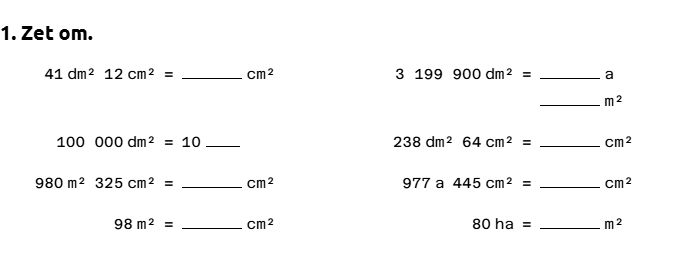
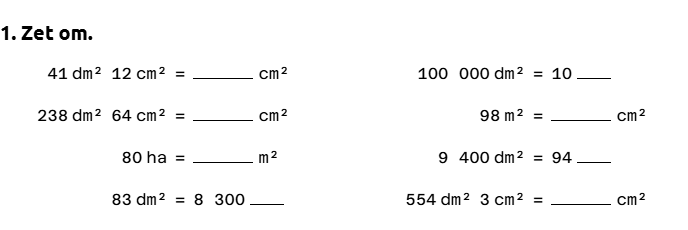
docs: kiosk triage wrap-up — K1 docs (fraction input, plaatsAnswer, cardExtent, checkFields), BUGS, UpdateState, release notes; catalogue regenerated

diff --git a/oefeningen.html b/oefeningen.html
@@ -1026,7 +1026,7 @@
 
       <div id="catalogue-cards">
 <!-- catalogue:start -->
-    <!-- catalogue: seed 1234, 2026-10-10, 128 leaves -->
+    <!-- catalogue: seed 1234, 2026-10-11, 128 leaves -->
     <section id="getallenkennis">
       <h2>Getallenkennis</h2>
       <h3>Getalbegrip</h3>
@@ -1387,7 +1387,7 @@
       <article class="ex-card" id="hr-std-optellen-dec" data-leaf="hr-std-optellen-dec" data-type="hr-std-optellen">
         <h4>Decimale getallen</h4>
         <p class="ex-instruction">&ldquo;Reken uit.&rdquo;</p>
-        <p class="ex-desc">Instelbaar: getalsoort, plus aantal, breedte, lettergrootte en schrijfruimte.</p>
+        <p class="ex-desc">Instelbaar: getalsoort, maximumgetal en aantal cijfers na de komma, plus aantal, breedte, lettergrootte en schrijfruimte.</p>
         <img src="/oefeningen/hr-std-optellen-dec.png" alt="Voorbeeld van de oefening Decimale getallen" loading="lazy" width="688" height="314" />
       </article>
       <article class="ex-card" id="hr-std-aftrekken-nat" data-leaf="hr-std-aftrekken-nat" data-type="hr-std-aftrekken">
@@ -1399,7 +1399,7 @@
       <article class="ex-card" id="hr-std-aftrekken-dec" data-leaf="hr-std-aftrekken-dec" data-type="hr-std-aftrekken">
         <h4>Decimale getallen</h4>
         <p class="ex-instruction">&ldquo;Reken uit.&rdquo;</p>
-        <p class="ex-desc">Instelbaar: getalsoort, plus aantal, breedte, lettergrootte en schrijfruimte.</p>
+        <p class="ex-desc">Instelbaar: getalsoort, maximumgetal en aantal cijfers na de komma, plus aantal, breedte, lettergrootte en schrijfruimte.</p>
         <img src="/oefeningen/hr-std-aftrekken-dec.png" alt="Voorbeeld van de oefening Decimale getallen" loading="lazy" width="688" height="314" />
       </article>
       <article class="ex-card" id="hr-std-vermenigvuldigen-nat" data-leaf="hr-std-vermenigvuldigen-nat" data-type="hr-std-vermenigvuldigen">
@@ -1411,7 +1411,7 @@
       <article class="ex-card" id="hr-std-vermenigvuldigen-dec" data-leaf="hr-std-vermenigvuldigen-dec" data-type="hr-std-vermenigvuldigen">
         <h4>Decimale getallen</h4>
         <p class="ex-instruction">&ldquo;Reken uit.&rdquo;</p>
-        <p class="ex-desc">Instelbaar: getalsoort, plus aantal, breedte, lettergrootte en schrijfruimte.</p>
+        <p class="ex-desc">Instelbaar: getalsoort, maximumgetal en aantal cijfers na de komma, plus aantal, breedte, lettergrootte en schrijfruimte.</p>
         <img src="/oefeningen/hr-std-vermenigvuldigen-dec.png" alt="Voorbeeld van de oefening Decimale getallen" loading="lazy" width="688" height="314" />
       </article>
       <article class="ex-card" id="hr-std-delen-nat" data-leaf="hr-std-delen-nat" data-type="hr-std-delen">
@@ -1423,7 +1423,7 @@
       <article class="ex-card" id="hr-std-delen-dec" data-leaf="hr-std-delen-dec" data-type="hr-std-delen">
         <h4>Decimale getallen</h4>
         <p class="ex-instruction">&ldquo;Reken uit.&rdquo;</p>
-        <p class="ex-desc">Instelbaar: getalsoort, plus aantal, breedte, lettergrootte en schrijfruimte.</p>
+        <p class="ex-desc">Instelbaar: getalsoort, maximumgetal en aantal cijfers na de komma, plus aantal, breedte, lettergrootte en schrijfruimte.</p>
         <img src="/oefeningen/hr-std-delen-dec.png" alt="Voorbeeld van de oefening Decimale getallen" loading="lazy" width="688" height="314" />
       </article>
       <article class="ex-card" id="hr-std-gemengd-nat" data-leaf="hr-std-gemengd-nat" data-type="hr-std-gemengd">
@@ -1435,7 +1435,7 @@
       <article class="ex-card" id="hr-std-gemengd-dec" data-leaf="hr-std-gemengd-dec" data-type="hr-std-gemengd">
         <h4>Decimale getallen</h4>
         <p class="ex-instruction">&ldquo;Reken uit.&rdquo;</p>
-        <p class="ex-desc">Instelbaar: getalsoort, plus aantal, breedte, lettergrootte en schrijfruimte.</p>
+        <p class="ex-desc">Instelbaar: getalsoort, maximumgetal en aantal cijfers na de komma, plus aantal, breedte, lettergrootte en schrijfruimte.</p>
         <img src="/oefeningen/hr-std-gemengd-dec.png" alt="Voorbeeld van de oefening Decimale getallen" loading="lazy" width="688" height="314" />
       </article>
       <h3>Handig hoofdrekenen</h3>
@@ -1797,7 +1797,7 @@
         <h4>Oppervlakte</h4>
         <p class="ex-instruction">&ldquo;Zet om.&rdquo;</p>
         <p class="ex-desc">Instelbaar: grootheid en eenheden, plus aantal, breedte, lettergrootte en schrijfruimte.</p>
-        <img src="/oefeningen/herleidingen-oppervlakte.png" alt="Voorbeeld van de oefening Oppervlakte" loading="lazy" width="688" height="253" />
+        <img src="/oefeningen/herleidingen-oppervlakte.png" alt="Voorbeeld van de oefening Oppervlakte" loading="lazy" width="688" height="230" />
       </article>
     </section>
     <section id="bladonderdelen">

diff --git a/src/config/releaseNotes.ts b/src/config/releaseNotes.ts
@@ -226,6 +226,16 @@ export const RELEASE_NOTES: readonly ReleaseNote[] = [
                 text: 'Oefenmodus: de kaart toont een “?”-vakje waar het antwoord komt, veelvouden en wisselgeld variëren, en herleidingen blijven binnen de leerstof van het leerjaar.',
             },
             {
+                kind: 'nieuw',
+                text: 'Oefenmodus: breuken herkennen vraagt een echte breuk (eerst noemer, dan teller). Plaatswaarde krijgt de keuze “Antwoord”: waarde, plaats, plaats door elkaar.',
+                example: { leafId: 'plaatswaarde-plaats', constraints: { plaatsAnswer: 'waarde' }, grade: 3, count: 2, after: 'de leerling typt de waarde (“20”)' },
+            },
+            {
+                kind: 'opgelost',
+                text: 'Oefenmodus: controleren toont ook foute sommen, breuk-kommagetal vergelijken is niet altijd “<”, en het onderstreepte cijfer bij plaatswaarde is zichtbaar.',
+                example: { leafId: 'vergelijken-representaties', grade: 5, count: 3, before: 'altijd “<”', after: '<, = en > komen voor' },
+            },
+            {
                 kind: 'gewijzigd',
                 text: 'Bladen die je met deze versie bewaart of deelt, openen niet meer op de vorige versie van RekenRaak (nieuw bestandsformaat).',
             },

diff --git a/.claude/docs/ARCHITECTURE.md b/.claude/docs/ARCHITECTURE.md
@@ -522,9 +522,9 @@ only.
 | `splitsen` (positie-*) | `splitsenExercises` | `generateSplitsenExercises` | `SplitsenViewer` | `SplitsenConfig` | layout positie-tabel/-benen/-math (sidebar leaf), maxGetal(≤1e9), decimalPlaces, operand1Mask, benenVariants[], mathForms[], mathDirection, `mathOrder` (volgorde/gehusseld — the generator shuffles once per exercise into `ex.placeOrder`); columns follow width + maxGetal (benen), positie-math is always 1-up Number words put a space after "duizend" ("duizend tweehonderd") |
 | `getallenas` | `getallenasExercises` | `generateGetallenasExercises` | `GetallenasViewer` | `GetallenasConfig` | numberType (natural/decimal/rational/geheel), maxGetal, minGetal, step, fractionStep, direction(+beide), allowMixed, gelijknamig, hardMode, ticks |
 | `temperatuur` | `temperatuurExercises` | `generateTemperatuurExercises` | `TemperatuurViewer` | `TemperatuurConfig` | variant (kleuren/aflezen/verschil — sidebar leaf), mode1/mode2 (verschil), includeNegatives, perRow |
-| `plaatswaarde` | `PLAATSWAARDE_KIOSK` | waarde: a number; plaats: pick the place; omcirkelen: **tap** the place chip; tabel: **fill** the plaatswaardetabel |
+| `plaatswaarde` | `PLAATSWAARDE_KIOSK` | waarde: a number; plaats: pick the place; omcirkelen: **tap** the place chip; tabel: **fill** the plaatswaardetabel `plaatsAnswer`: `'plaats'` (today's H/T/E in digit order) · `'plaats-shuffle'` (seeded shuffle, never the digit order with 3 places) · `'waarde'` (type the digit's value, "20"); PlaatswaardeConfig "Antwoord" picker; both leaf instructions follow the setting |
 | `even-oneven` | `EVEN_ONEVEN_KIOSK` | cirkels: even / oneven; rooster: **tap** every even (or oneven) number |
-| `vergelijken` | `VERGELIJKEN_KIOSK` | getallen / representaties: `<` `=` `>` buttons; kiezen: **tap** the grootste / kleinste number on the card |
+| `vergelijken` | `VERGELIJKEN_KIOSK` | getallen / representaties: `<` `=` `>` buttons; kiezen: **tap** the grootste / kleinste number on the card representaties: both sides drawn in the same magnitude with ≈ 20 % equal pairs (no answer > 60 % over 200 seeds; was always "<") |
 | `afronden` | `AFRONDEN_KIOSK` | simpel and rooster: **fill** the rounded number into the card's cells |
 | `romeinse-cijfers` | `romeinseExercises` | `generateRomeinseExercises` | `RomeinseViewer` | `RomeinseConfig` | subType (herkennen/schrijven), niveau (1–4); always-subtractive notation, numberMask |
 | `herleidingen` | `herleidingExercises` | `generateHerleidingExercises` | `HerleidingenViewer` | `HerleidingenConfig` | measure (lengte/inhoud/massa/**oppervlakte** incl. ha·a·ca — sidebar leaf), units[] (ladder subset), **maxEnkel** (def 100, single formats) + **maxSamengesteld** (def 1000, compound formats) — power-of-10 breakpoint sliders, formats[] (4), **compoundMode** (2/volledig), writeUnits, scaffolding (geen/tabel-headers/tabel-blanco) + table options `tablePrompt`/`tableAnswer` (blank/filled/hidden)/`tableCellW`/`tableCellH` — all in the **Differentiatie** card. Integer-exact (safe-int guarded); `HerleidingenViewer` auto single-columns wide blocks, renders a centered enriched table, and allows inline edit of given numbers + a unit **dropdown** (`recomputeHerleiding` + `patchExercise`). Key drops zero parts ("71 dl"); the sheet keeps every blank; kiosk: a zero part typed 0 or left empty is juist (`answerOf` `'0|'`, descriptor `blankFields`) writeUnits: the generator sets `targetUnit` per exercise (one-part number answers); the sheet prints a grey "(in mm)" hint after the blank and the kiosk header says "Zet om naar mm." while `showTargetUnit` ("Doeleenheid tonen", missing = on) holds; the pupil still writes / taps the unit and the copy guard stays `maxWaarde` (hidden constraint, no picker): the generator rejects bigger numbers and drops the cap if nothing fits; `SEED_FIT` at leerjaar ≤ 3 caps at 10 000 (minimumdoelen) and below leerjaar 5 oppervlakte has no compound formats; the oppervlakte leaf default is 999 999 |
@@ -1188,6 +1188,7 @@ src/
 │       ├── Tray.tsx             # build kind: one tile per KioskPiece (picture from EXERCISE_UI[typeId].TrayPiece), tap lays one, the count badge takes one back; never shows the running total
 │       ├── FeedbackOverlay.tsx  # Juist! / Fout / retry flash (tap or Enter skips), never the right answer; no Volgende button
 │       ├── StatsScreen.tsx      # headline c van m juist (m van p gemaakt), per type gemaakt/juist/juist in één keer/juist na 2e kans/fout/%, Foutjes (exercise, given, expected), Opnieuw, two-tap Wissen
+│       ├── cardExtent.ts        # measured card height = layout box + whatever draws below it (underlines), so nothing is clipped by the sizer
 │       ├── StorageBanner.tsx    # role=alert strip when saveRun returned false (storageFailed): "Dit toestel kan je resultaten niet bewaren."
 │       ├── StartScreen.tsx      # confirm screen (title, n soorten · n oefeningen · min, type chips), Start (+ fullscreen try)
 │       ├── ErrorScreen.tsx      # bad / truncated / newer link, or no link
@@ -2080,7 +2081,7 @@ finish(): locked StatsScreen (De tijd is om! / Klaar!) — reload stays there; O
 
 | Field | Contract |
 |---|---|
-| `input` | the typical input: `number` · `number+rest` (quotiënt + rest, both must match) · `choice` · `missing-operand` (the blank of a puntoefening) · `text` (a word on the device keyboard: Romeins, a unit) · `time` (uur + min) · `multi-number` (one field per blank) · `number+unit` (herleidingen with writeUnits: keypad number + the measure's WHOLE unit ladder as choice buttons from the settings; checked by VALUE through `unitFactors` with exact scaled integers, so 1 m 20 = 120 cm = 12 dm; typing the given quantity back in its own unit counts as wrong - the copy guard) · `interactive` (Phase C: the pupil answers ON the exercise, see `interact`) |
+| `input` | the typical input: `number` · `number+rest` (quotiënt + rest, both must match) · `choice` · `missing-operand` (the blank of a puntoefening) · `text` (a word on the device keyboard: Romeins, a unit) · `time` (uur + min) · `multi-number` (one field per blank) · `fraction` (breuken herkennen: two keypad fields typed NOEMER first, then TELLER, drawn teller-over-bar-over-noemer in the panel; the wide key reads "Verder" until the teller field; `answerOf` = breuk spellings compared as "teller/noemer" under `exactForm` — the drawn form 2/6 by default, any equal value with the row toggle; stats show "3/6") · `number+unit` (herleidingen with writeUnits: keypad number + the measure's WHOLE unit ladder as choice buttons from the settings; checked by VALUE through `unitFactors` with exact scaled integers, so 1 m 20 = 120 cm = 12 dm; typing the given quantity back in its own unit counts as wrong - the copy guard) · `interactive` (Phase C: the pupil answers ON the exercise, see `interact`) |
 | `inputOf(ex, c)?` | per-exercise refinement (a puntoefening or met-rest row in an hr block, a unit-blank herleiding) |
 | `choices?` / `choicesOf(ex, c)?` | the buttons, in order; `choicesOf` for per-exercise buttons (the row's numbers in vergelijken kiezen) |
 | `labels(ex, c)?` | multi-number field names (kg / g, euro / cent); named fields get a caption, numeric ones read left to right |
@@ -2100,6 +2101,8 @@ finish(): locked StatsScreen (De tijd is om! / Klaar!) — reload stays there; O
 | `kioskInstruction?` | the card header when the paper instruction names a pen verb (omcirkel, kleur, vul in) or a paper-only answer ("in woorden") but the kiosk asks a tap or a typed cell (klok analoog lezen: "Lees de klok en typ de tijd (uu:mm)."; breuken kleuren: "Kleur 3/6 in." and the card hides its own prompt under the context); string or `(ex, c) => string \| undefined`. A teacher's own wording wins; the leaf's default gives way to this (`kioskInstructionOf`) |
 | `interact?` / `interactOf(c)?` | required whenever `input` / `inputOf` can be `interactive`: `{ kind, answerOf, fromState, keys?, cellOf?, show? }` (rows below). `interactOf` picks per SETTINGS (plaatswaarde: tap a letter or fill the tabel; undefined falls back to `interact`); read both through `kioskInteractOf(d, c)` |
 | `blankFields?(ex, c)` | multi-number: fields that may stay empty (a zero part in a compound herleiding); Controleer runs with one field filled (`typedReady`); `''` in `answerOf` marks the accepted empty alternative |
+| `kioskSeed?(c)` | the kiosk's own starting settings for a leaf, read by `listOefenLeaves` (plaatswaarde rows start on `plaatsAnswer: 'waarde'` while the sheet default stays `'plaats'`) |
+| `checkFields?(ex, c, given)` | multi-number: a cross-field rule beside the per-field check (gelijknamig: both answers must share a noemer and equal the given fractions — any common noemer counts; a teacher-fixed `targetDen` is still required) |
 | `unitFactors?(c)` | number+unit: the ladder's factors to the base unit (massa stops at kg: the generator has no ton) |
 | `showAnswer?(ex, c)` | stats error-row text when `display` would read as a riddle: "analoge klok toont 4:45: hoe laat?", "hoek van 120°: welke soort?", geld "€ 2,65" |
 | `supported(c)?` | settings this descriptor can check (splitsen: four layouts; breuken: kleuren / herkennen / hoeveelheid); `kioskSupports` evaluates it over the registry defaults + the leaf's; the builder excludes an unsupported row with a hint |
@@ -2315,6 +2318,9 @@ nothing are pinned per leaf in `oefenen.zeroOutput.test.ts` (DEAD table; a new o
 
 ### Card content rules (clean sweep 2026-10-10)
 
+- Card height = the layout box plus anything drawn below it (`kiosk/cardExtent.ts`): the plaatswaarde underline used to be clipped by `.kiosk-card-sizer`, so pupils could not see which digit was asked.
+- Controleren: the sheet mixes wrong sums by row (`foutAandeel`), but a one-exercise kiosk block is always row 0 — the descriptor's `prepare` flips a coin per exercise (35–65 % wrong over 200 seeds); the negenproef cross and the omgekeerde controle line are hidden on the card.
+- Positietabel cells above the first digit may stay blank (`'0|'`); a zero inside the number must be typed. Every cijferen card has one header, "Cijfer uit. Typ ook je onthoud- en leencijfers." — the same text whatever the exercise, so it leaks nothing (owner rule: a needed carry left blank is fout).
 - Typed leaves show no paper answer line: under `KioskCardProvider` (ExerciseCard) every answer line / "____ °C" slot renders `KioskAnswerSlot` (a highlighted "?" box) — MathBlockRenderer (puntoefening, met-rest, main line), Afronden, Procenten, Romeinse, Temperatuur, Weegschaal, Oppervlakte, Maateenheid, Herleidingen, Plaatswaarde, Schattend, Rekenvolgorde, GeldRekenen, BreukBewerk, breuken hoeveelheid. Temperatuur-verschil fills both thermometers and keeps one slot.
 - Headers: `kioskInstructionOf` turns "Schrijf …" into "Typ …"; the instruction test bans "schrijf" and "in woorden". Herleidingen with writeUnits: "Zet om naar <unit>." (`targetUnit`, unless `showTargetUnit` is off).
 - Under `ScaffoldProvider(false)` the card also hides: the schattend tussenstap, geld-teruggeven's sprong + "__ euro en __ cent", breuken-hoeveelheid's ": × =" rows, oppervlakte's "opp = __ × __", and the klok / vormleer / MAB writing line (`oefenen.cardScaffold.test.tsx`; sheet byte-identical).

diff --git a/.claude/docs/UpdateState.md b/.claude/docs/UpdateState.md
@@ -5,6 +5,8 @@ Most recent entry first.
 
 ---
 
+**2026-10-11** — **Kiosk triage night** (3851873 → K1/K2 merges; tag `pre-kiosk-triage`). Owner found kiosk leaves useless in a preview → a Sonnet gallery of all 110 leaves (220 variants, `~/Downloads/kiosk-gallery/`, mechanical flags), Claude's read of every leaf (REVIEW.local §J), an Opus pupil-play pass (`kiosk-triage/k3/verdict.md`) and two fix WPs. **K1 (Opus)**: `fraction` input kind for breuken herkennen (noemer first, stacked breuk), `plaatsAnswer` setting (`waarde` as kiosk seed via `kioskSeed`, shuffled places), controleren coin per exercise + hidden cross, vergelijken-representaties same-magnitude draw, card extent incl. underlines (`cardExtent.ts` — the clipped plaatswaarde underline was the real classroom problem), gelijknamig any common noemer (`checkFields`), positietabel leading blanks, one cijferen header. **K2 (Sonnet)**: veelvouden `prepare` (deler + `startFrom`), geld-wissel bills [5,10,20,50], lengte-meten unsupported on the kiosk, herleidingen `maxWaarde` + grade caps, hr -dec defaults 100 / 1 dp / whole deler, afronden ≥ 5, `KioskAnswerSlot` "?" box on every typed card (`KioskCardProvider`), temperatuur-verschil card. Owner's "omzettingen shows nothing" not reproduced. Docs: ARCHITECTURE §7/§11/§15, TESTING rows, BUGS (4 new notes), release notes, catalogue + smoke regenerated. Pushed; PC shut down after (owner's standing go).
+
 **2026-10-10 (2)** — **Final calls on `rc-oefenen`** (21fadf3 → c048c07 + docs; tag `pre-final-calls`; plan `~/.claude/plans/final-calls-2026-10-10.md`; F1 Opus, F2/F3 Sonnet, F4 Opus, ~35 commits). Owner decisions 1–10 implemented: herleidingen key drops zero parts (kiosk accepts 0 or empty, `blankFields`); meten / omtrek / lijnstuk ALWAYS true size (`trueSize.ts` cm budget per tier, note when the max is cut; scaled path removed); mab-tekenen floor ½; decimal × = kommagetal × natuurlijk getal by default + `decimalTimesDecimal` toggle shared by hr-dec × and gemengd (minimumdoelen 2.2); `SOL_FILL` red keys; TopBar stages 4–5 (`topBarStages.ts`, no overlap to 820 px); klok Richting zones (`minuteDirection.ts`, generator wired, 4 config buttons); honderdveld card widens (`cardNaturalWidth`); kettingsommen tussenresultaten for leerjaar 1–2 via `SEED_FIT(c, grade, override)`; herleidingen writeUnits names its target (`targetUnit`, grey "(in mm)" hint on the sheet, "Zet om naar mm." kiosk header, `showTargetUnit` toggle). Plain fixes: trailing zeros kept (`formatMathNumber(n, dp)`), breuk numerators spaced + masks above the max ignored, distinct breuken defaults + deelbaarheid rows dealt, kalender questionCount, ordenen pw017 estimate, vergelijken code `fitMonoFactor`, klok keys on the writing line, geld-teruggeven given black, geld-tekenen key make-up (`geldMakeUp.ts`), herleidingen left box `max-content`, breuken-hoeveelheid key, getallenrij pill fit, gemengd compenseren tussenstap, seeded pre-flight (zeroOutput no longer flaky). BUGS.md: 3 by-design/notes + 3 new F4 finds. Docs: ARCHITECTURE §5/§7/§8–9/§11/§14/§15, TESTING, UI-GUIDE, REVIEW.local §I, release notes (5 items with examples), catalogue + smoke (24/24) regenerated. Pushed to origin/rc-oefenen on the owner's standing go; PC shut down afterwards as asked.
 
 **2026-10-10** — **Clean sweep on `rc-oefenen`** (6d2e9ba → a1441c0 + docs; tag `pre-clean-sweep`; plan `~/.claude/plans/clean-sweep-2026-10.md`; 6 WPs S1–S6 merged `--no-ff`, ~70 commits; every open BUGS line + the 12 owner calls). **S1 generators**: breuk whole keys, afronden `roundedText` ("56,0"), klok "voor half / over half", kettingsommen blank after the start (+ `showIntermediates`), kalender leaves 4, veelvouden six reeksen, "duizend " space, ordenen draws under the max (default 2-up again), delen-dec default pinned. **S2 renderer**: compenseren tussenstap from the exercise's shape, breuken-kleuren key, klok hands red, ordenen spacing + ";", exact rest, `staleBlocks` reset, `isFurniture` flag (no `startsWith('layout-')`), puntoefening answer size. **S3 kiosk**: "Typ …" headers, card scaffolds hidden (schattend / geld-teruggeven / breuken-hoeveelheid / oppervlakte / writing lines), error rows readable (`showAnswer`), "Werk de app bij" for a newer leaf index, MAB tray "gelegd: n" −/+ help + labelled 1000 cube, met-rest hint, prime-noemer two rows, **herleidingen writeUnits as `number+unit`** (ladder buttons, value-equal via `unitFactors`, copy guard), O7 closed. **S4 Bordmodus**: geld-wissel model exchange key, overlays `.no-print`, PaletteRow neutral swatch / row-labelled hex names / reset follows value, BreukBewerk width, `WidgetFrame` fit zoom (`cardFitZoom`, dead-band), positietabel / honderdveld fit, BoardAddModal Escape/outside, stale instrument line removed. **S5 width & wrap**: 14 items (getallenas inset, even-oneven cells, patronen nowrap + ";", herleidingen / geld / deelbaarheid numbers never split, `monoTextPx` sizing, procenten / cijferen narrow, hrRowLayout 2-up rule, A4-fitting defaults, real-size figures with "niet op ware grootte", weegschaal needle, MAB piece scale, `borderSides`, ordenen bold, `stackedFractions` flag); sweep 258 → 0 failing cells, height audit clean, matrix rerun. **S6**: TopBar padding 24 (1920 full labels), constraintSpace drift test, scripts honour leaf `defaultCount`, per-leaf sweep max rows, deterministic A5 test. Docs: ARCHITECTURE §7/§8–9/§11/§14/§15, TESTING rows, BUGS (open: owner calls only + a few S5 leftovers), REVIEW.local §H, 12 release-note items with examples, catalogue + smoke regenerated. Owner rule recorded: ≤ 2 Sonnet + 2 Opus agents at once. Nothing pushed.

diff --git a/.claude/docs/TESTING.md b/.claude/docs/TESTING.md
@@ -56,6 +56,7 @@ The viewer suite opts into a DOM with `// @vitest-environment jsdom` at the top 
 | `modeButtons.test.tsx` | The sidebar mode row: Oefenmodus opens the builder, Bordmodus switches the view, the row survives the Overzicht tab, a locked curriculum hides Oefenmodus only, the TopBar carries neither. |
 | `leafDefaultCount.test.ts`, `sheetBlock.emptyNote.test.tsx` | A leaf's own `defaultCount` (oppervlakte-rooster = 2, everything else the row's); an empty block with a note shows the note on screen and nothing on paper. |
 | `oefenen.descriptors.test.ts` | Oefenmodus answers: exactly the expected kiosk-capable leaves (`EXPECTED_LEAVES`); every capable leaf × every leerjaar seed × 50 seeds, the descriptor's `answerOf` equals the generator's own answer field re-derived in the test (`TRUTH` per typeId, from-scratch arithmetic: half-up rounding, Roman numerals, unit ladders), `checkAnswer` takes every spelling and refuses a wrong one, every accepted answer is typeable with the offered keys; `supported()` per setting; input kinds per exercise; build trays and drag answers (right / wrong values from `helpers/dragCheck.ts` per family); breuken-bewerken accepts only the asked form. |
+| kiosk triage K1 2026-10-11 (`oefenen.fraction*`, `plaatswaarde.answer*`, `controleren.kiosk*`, `vergelijken.representaties*`, `cardExtent*`, `gelijknamig.common*`, `positietabel.blank*` tests, smoke 13 kinds) | `fraction` input, `plaatsAnswer`, controleren coin per exercise, representaties magnitude, underline inside the card (jsdom + Playwright 4 cases × 3 viewports), any common noemer, leading blanks, one cijferen header |
 | `oefenen.k2.test.ts` · `oefenen.k2.card.test.tsx` | kiosk triage K2 2026-10-11: veelvouden draws ≥ 4 distinct rows in 6, omtrek perimeters pinned, wissel default bills, lengte-meten unsupported on the kiosk, herleidingen `maxWaarde` + grade caps (200 seeds × 4 leaves), hr-dec defaults, afronden ≥ 5, `KioskAnswerSlot` on every typed leaf (0 on the sheet), temperatuur-verschil card |
 | final calls 2026-10-10: `herleidingen.zeroParts.test.tsx`, `herleidingen.targetUnit.test.tsx`, `gemengd.compenseren.test.tsx`, e2e matrix `COMBOS` (writeUnits × showTargetUnit), smoke 12 cases with a `header` check, `viewers.solutionFill.test.tsx`, `topBarShed` stages 4–5, `clockDirection` (minuteDirection zones), `boardHonderdveldWidth`, `oefenen.rowYieldsSeed` (pre-flight uses the kiosk's fixed-seed probe), `constraintSpace.configDrift` now also pins SLIDERS | one red test per decision / BUGS line |
 | clean sweep 2026-10-10: `sheetRenderer.sweep.test.tsx` (compenseren shape, breuken-kleuren key, klok hand colours, ordenen spacing, exact rest, staleBlocks, puntoefening), `furniture.test.ts` (no `startsWith('layout-')` under src), `cijferKeyPlacement` / `cijferNoFallback` (carries at col-1, units-first products, honest empty block), `delenSpread`, `afrondenViewer`, `constraintSpace.configDrift.test.tsx` (Config buttons = constraintSpace, `PINS`), `topBarShed` / `useShedStages` (padding + gap read from theme.css), `oefenen.cardScaffold.test.tsx`, number-unit chains in the e2e matrix | one red test per BUGS line fixed in the sweep; see UpdateState 2026-10-10 |

diff --git a/.claude/docs/BUGS.md b/.claude/docs/BUGS.md
@@ -36,22 +36,20 @@ UpdateState). Left over, found while fixing:
 
 ## Oefenmodus (first classroom test, 2026-10-09)
 
-- Kiosk triage 2026-10-10 (gallery under ~/Downloads/kiosk-gallery/, REVIEW.local §J): controleren kiosk never
-  shows a wrong sum (12/12 juist) and draws the unusable negenproef cross; vergelijken-representaties always "<"
-  (breuk < 1 vs decimal 2–9); deelbaarheid-veelvouden draws "van 9" every time; omtrek-gegeven 5/6 identical;
-  geld-wissel default bills [5,10] repeat; lengte-meten-gegeven unmeasurable on a screen; herleidingen L3 seed
-  gives 7–10-digit answers ("68 ha = ? cm²"); hoofdrekenen -dec defaults aren't mental maths ("432,36 : 0,6");
-  afronden draws 2 → 0; typed cards keep the paper "____" line. 2026-10-10
+- Builder row label still says "plaats omcirkelen" when the row's `plaatsAnswer` is `'waarde'` (K1 2026-10-11). 2026-10-11
+- `oefen-smoke` reads the store through in-page imports and fails with "phase start" after an HMR reload: use a fresh
+  dev server per run (K1). 2026-10-11
+- Kiosk mab-herkennen: the tens bars are hard to count at card scale (K3 pupil-play misread 2 of 3); pairs with the
+  classroom MAB note above. 2026-10-11
+- Several leaves listed from leerjaar 1–2 default to leerjaar-3+ numbers in the builder (K3); the builder row could
+  seed from the sidebar's leerjaar instead of the registry default — owner call. 2026-10-11
 
-- Kiosk verbanden-paren ("Getallenkennis › Omzettingen"): the session shows no exercise at all (owner, 2026-10-10
+
+- Kiosk verbanden-paren ("Getallenkennis › Omzettingen"): the owner's preview (2026-10-10) showed no exercise; NOT
+  reproduced on 3851873 (gallery, the full builder path, 160 setting combos, 5 viewports all render; paren became
+  interactive in f2a4782, so an older preview build is the suspect). Needs the owner's device + link. 2026-10-11
   preview). Suspect: the row dies in the pre-flight / `nextExercise` returns null at the builder defaults.
   Reproduce via a single-row session; see the kiosk-gallery `gen-fail` flag. 2026-10-10
-- Kiosk plaatswaarde "plaats omcirkelen" (128, the 2 underlined, tap H / T / E): pointless as built — the H T E
-  buttons sit in the same order as the digits, so the pupil just counts. Owner: make it a setting — e.g. shuffle
-  the choice order, or ask the VALUE of the digit ("20", typed) instead of its place. 2026-10-10
-- Kiosk breuken herkennen: asks "gelijke delen / aantal delen" instead of the fraction — pedagogically wrong.
-  Owner: either the breukvragen path (teacher toggle) filling the fraction step by step, or better a `fraction`
-  input kind where the pupil types noemer first, then teller, drawn as a real stacked fraction. 2026-10-10
 
 ## Oefenmodus beta audit 2026-10-09
 
